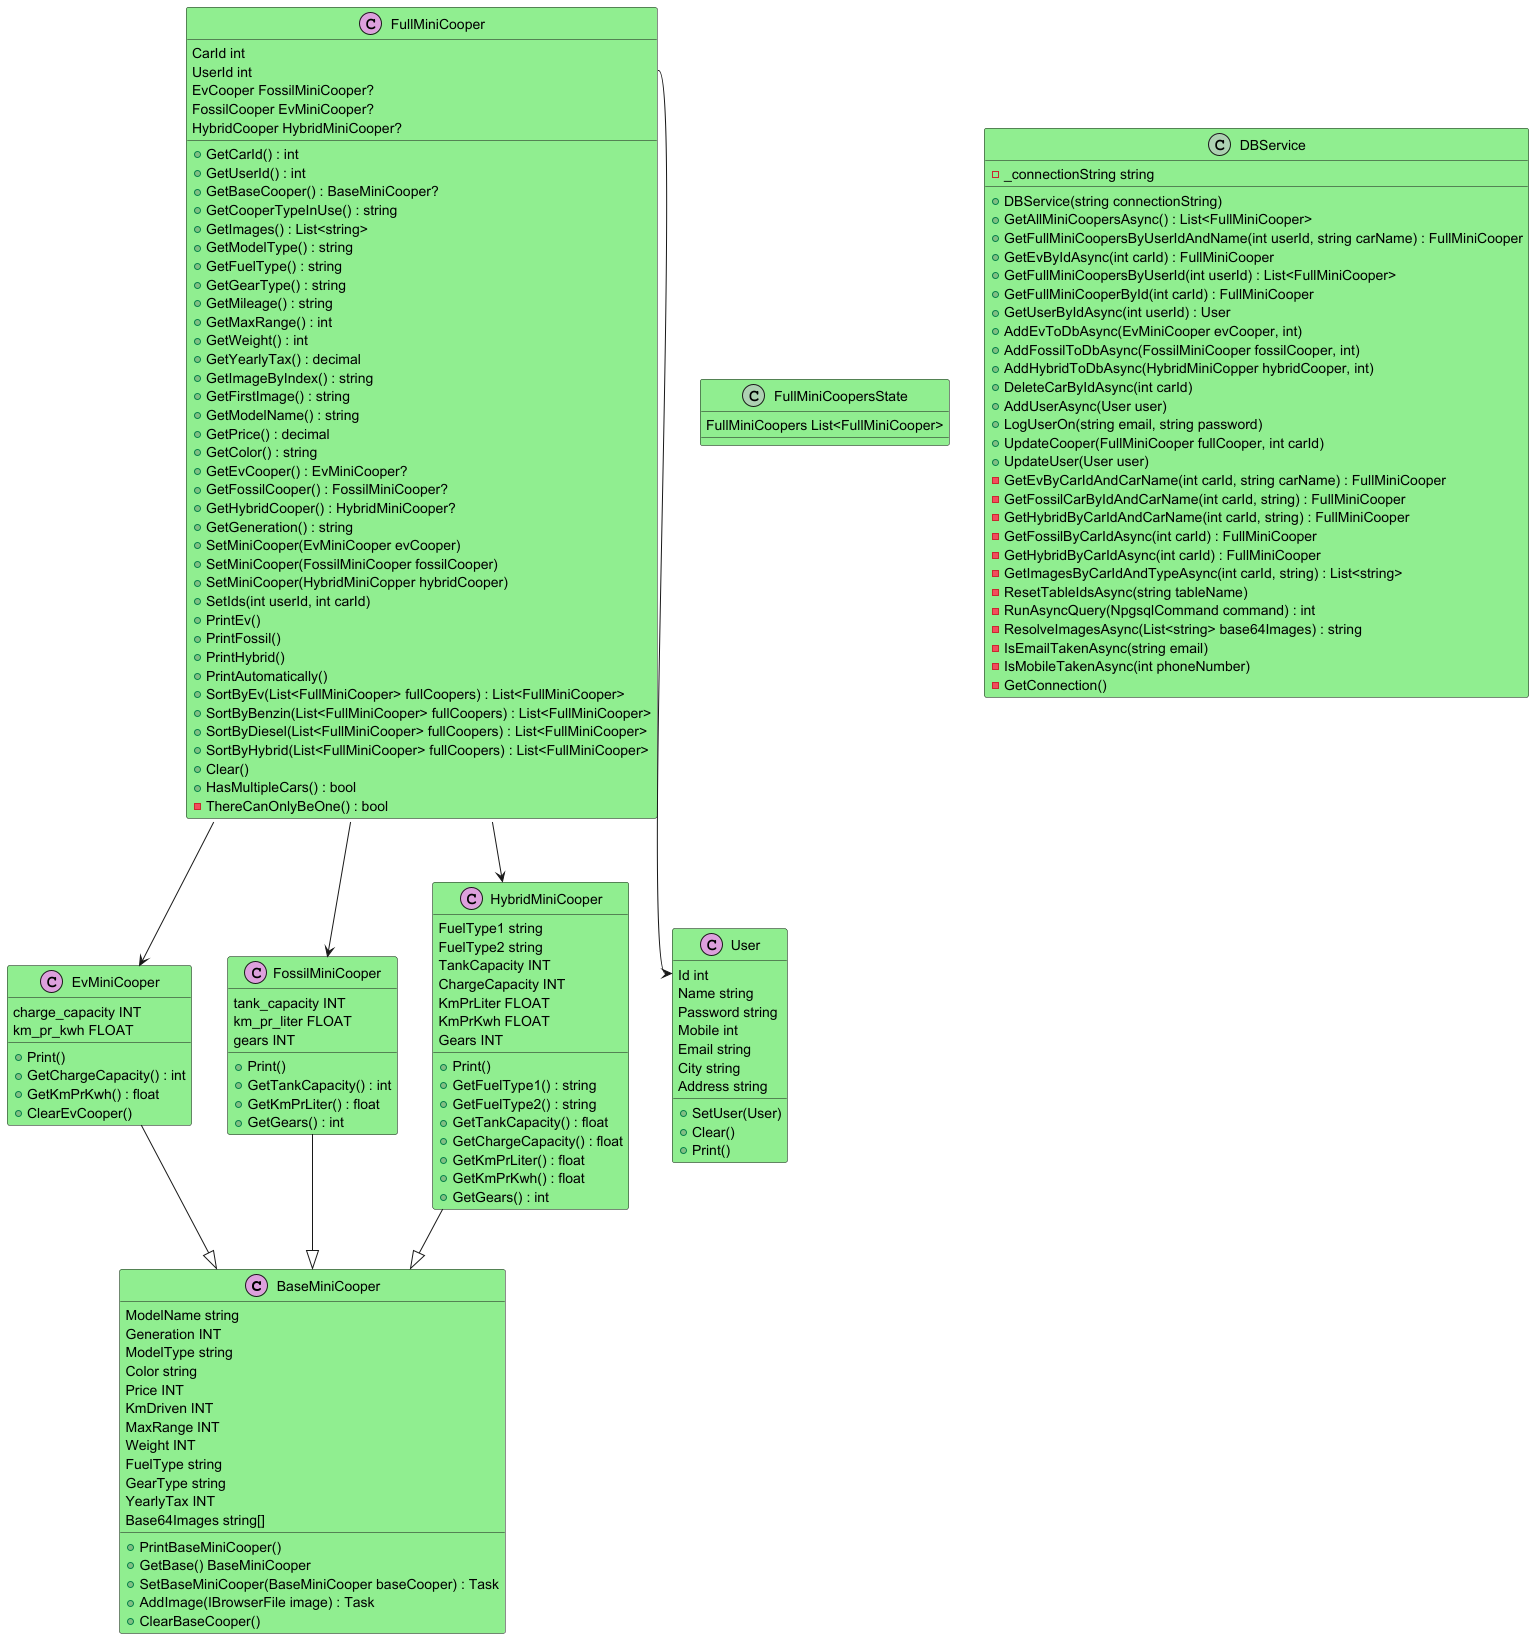
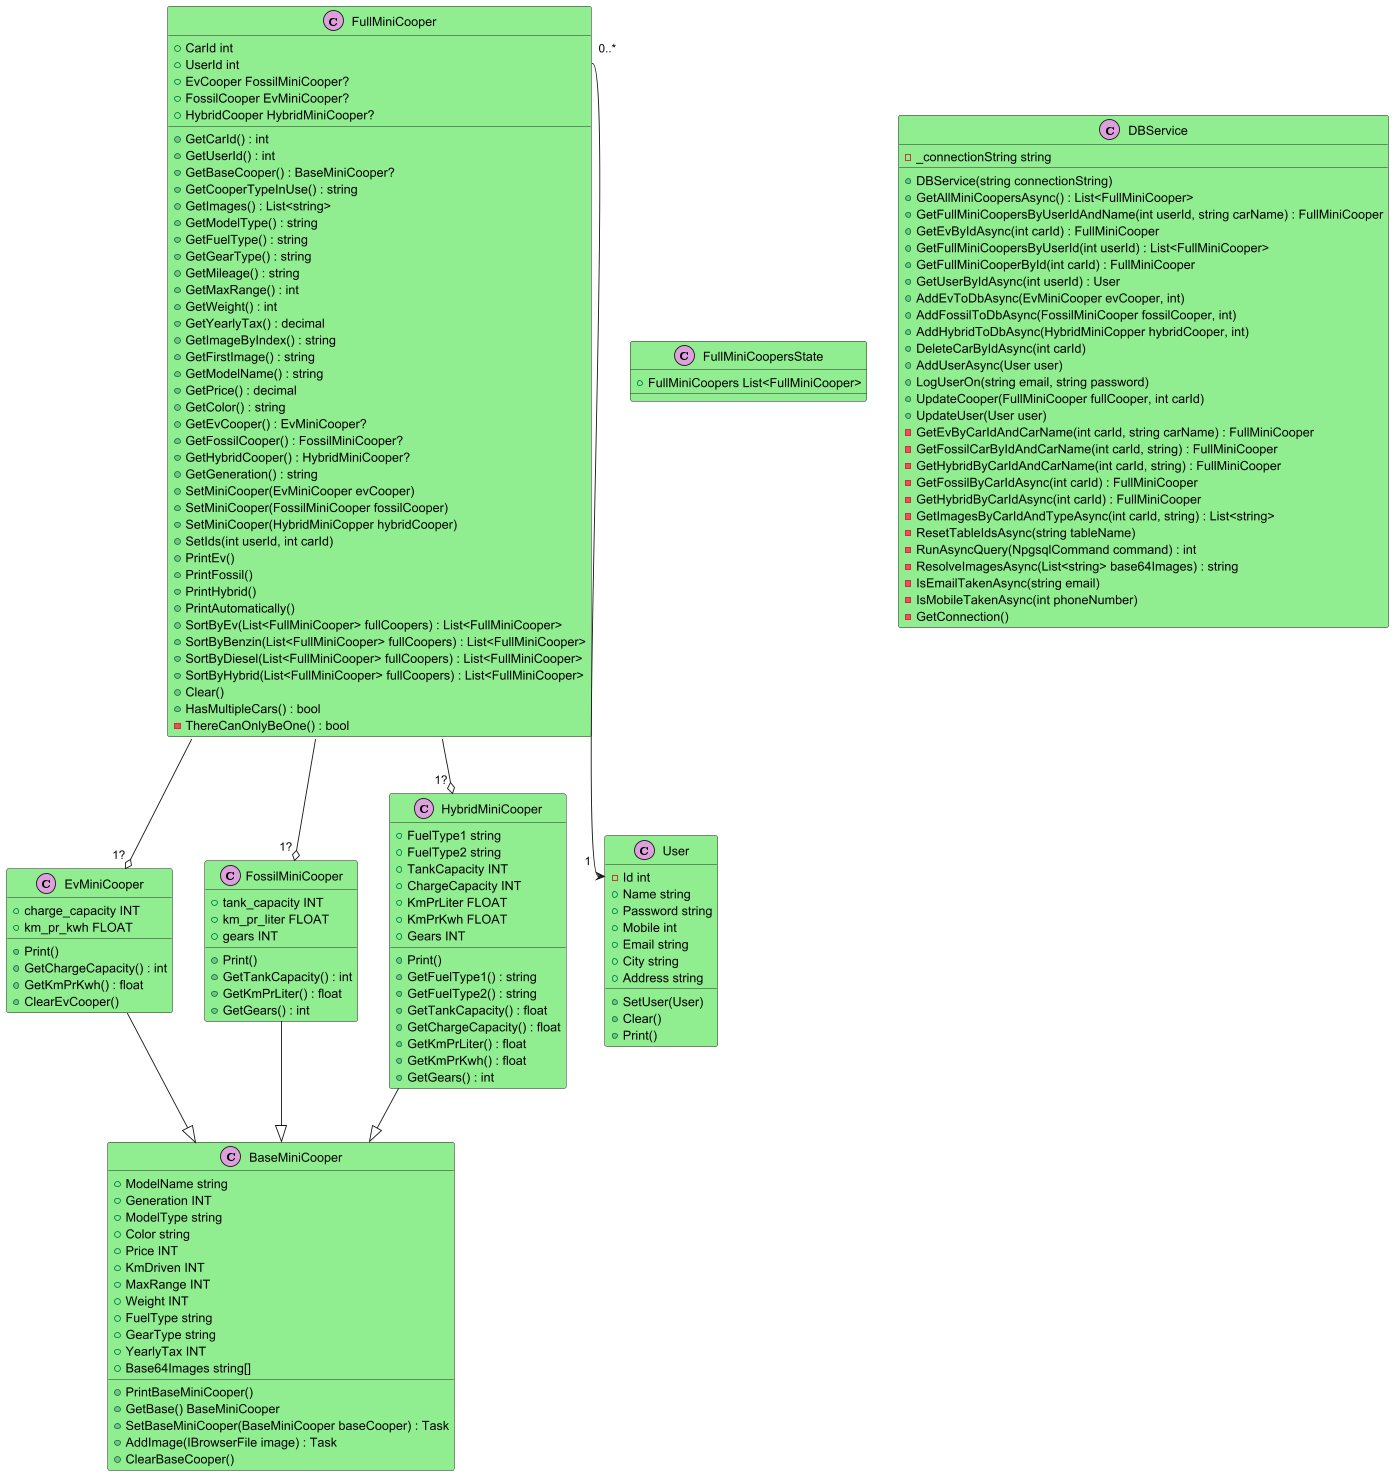
Refactor diagrams and improve null checks for MiniCoopers.
Enhanced class diagrams with better visibility modifiers and clarified associations. Added a null check for `fullCooper` in `EditCarDashboard.razor` to handle missing data gracefully. Removed unnecessary logging from `Home.razor` for cleaner output.

diff --git a/BlazorApp/Service/DBService.cs b/BlazorApp/Service/DBService.cs
@@ -209,6 +209,7 @@ public class DBService
             throw;
         }
 
+        fullMiniCooper = null;
         return fullMiniCooper;
     }
 
